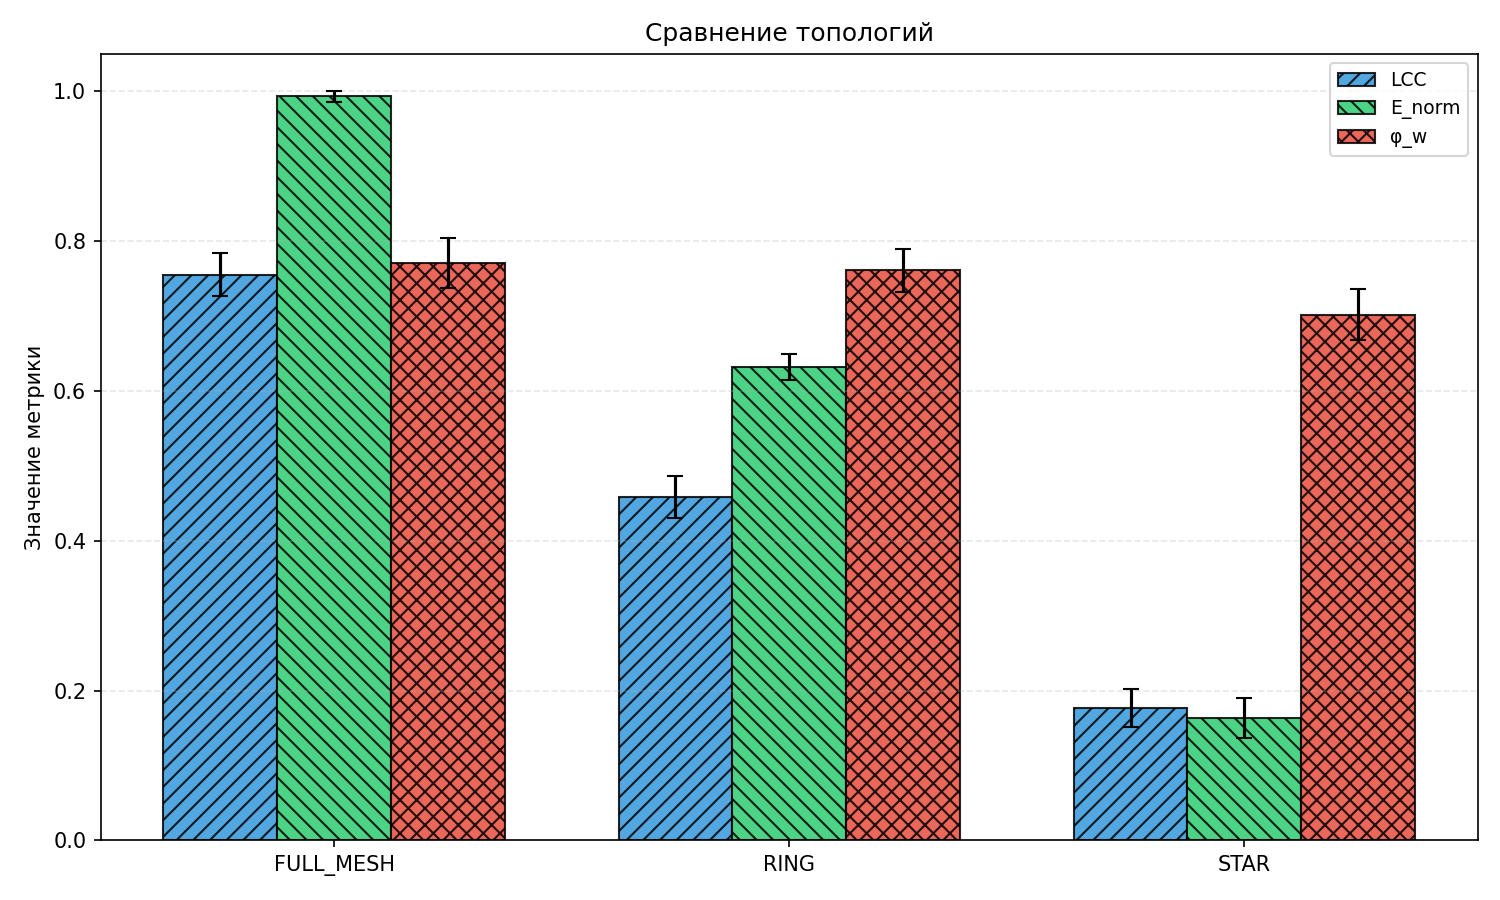
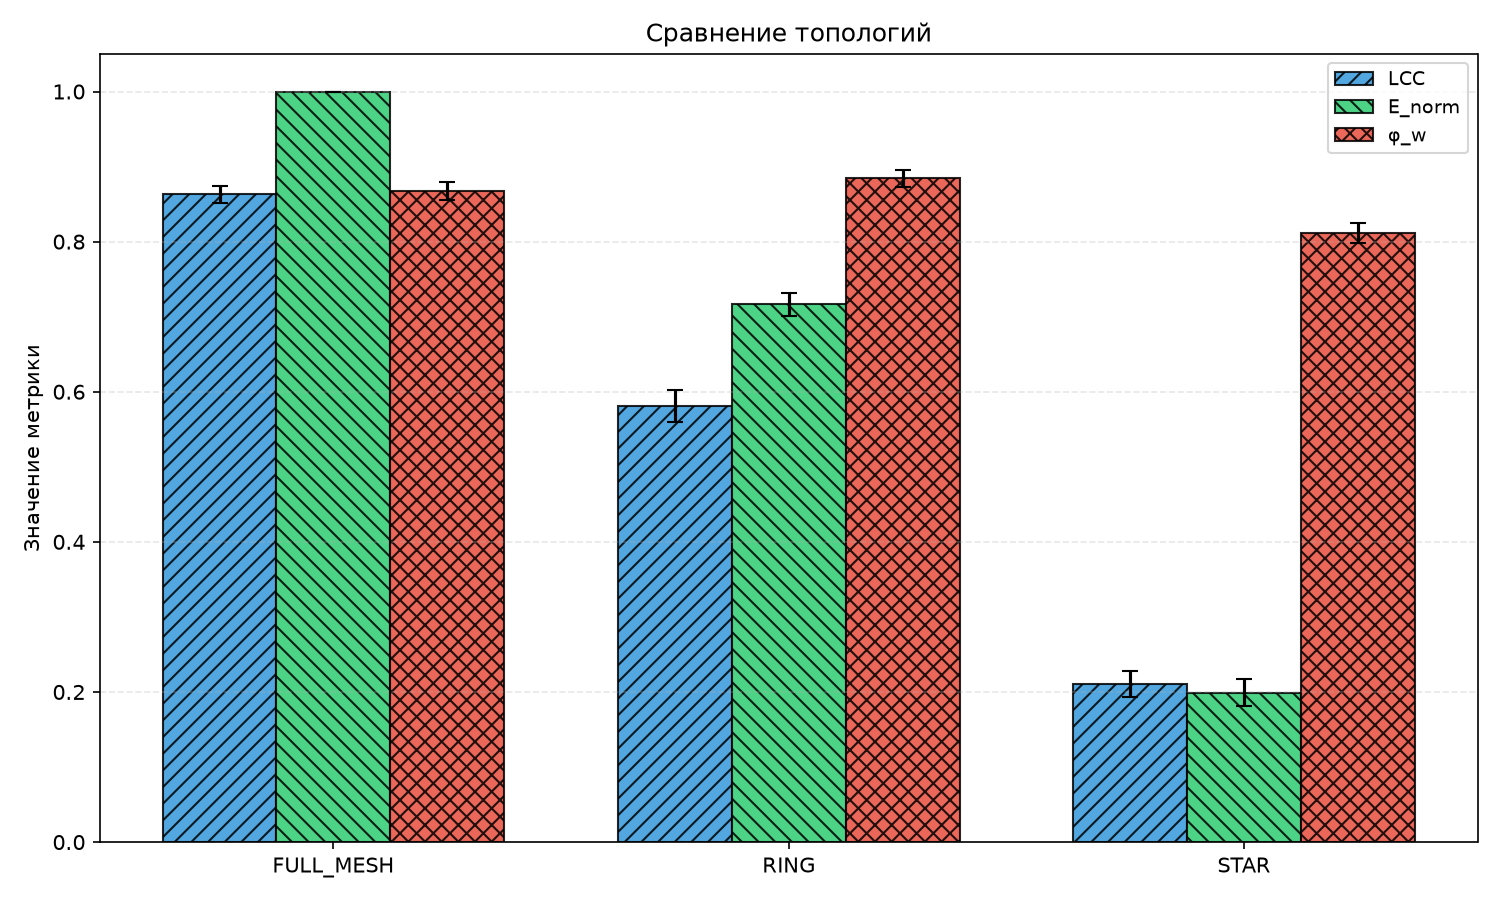
добавлены частично для каждого графика параметры взвешенной живучести

diff --git a/plot_results.py b/plot_results.py
@@ -181,48 +181,61 @@ def plot_timeseries(out_dir):
 
 # 5. Параметрический Sweep (ЧБ-совместимый с разными маркерами)
 def plot_sweep(out_dir):
+    """Создаёт ДВА графика sweep: по LCC и по φ_w."""
     files = glob.glob(os.path.join(out_dir, "sweep_*.csv"))
     if not files:
         return
     
-    fig, axs = plt.subplots(2, 2, figsize=(14, 10))
-    axs = axs.flatten()
+    # Стили топологий
+    TOPO_STYLES = {
+        "full_mesh": {"color": "#1f77b4", "marker": "o", "ls": "-"},
+        "ring":      {"color": "#2ca02c", "marker": "s", "ls": "--"},
+        "star":      {"color": "#d62728", "marker": "^", "ls": "-."},
+    }
     
-    for i, f in enumerate(files[:4]):
-        df = pd.read_csv(f)
-        param = os.path.basename(f).replace("sweep_", "").replace(".csv", "")
-        ax = axs[i]
+    # Создаём два графика: LCC и Weighted Survivability
+    for metric_suffix, ylabel, filename in [
+        ('lcc', 'LCC', 'plot_sweep_lcc.png'),
+        ('wsurv', 'Взвешенная живучесть φ_w', 'plot_sweep_wsurv.png')
+    ]:
+        fig, axs = plt.subplots(2, 2, figsize=(14, 10))
+        axs = axs.flatten()
         
-        cols = [c for c in df.columns if c.endswith('_lcc_mean')]
-        for col in cols:
-            topo = col.replace('_lcc_mean', '').upper()
-            ci_col = col.replace('_mean', '_ci')
-            style = TOPO_STYLES.get(col.replace('_lcc_mean', ''), 
-                                    {"color": "gray", "marker": "o", "ls": "-"})
+        for i, f in enumerate(files[:4]):
+            df = pd.read_csv(f)
+            param = os.path.basename(f).replace("sweep_", "").replace(".csv", "")
+            ax = axs[i]
             
-            ax.plot(df['x_value'], df[col], 
-                    marker=style['marker'], 
-                    linestyle=style['ls'],
-                    linewidth=2,
-                    markersize=8,
-                    label=topo, 
-                    color=style['color'],
-                    markeredgecolor='black',
-                    markeredgewidth=0.5)
-            ax.fill_between(df['x_value'], 
-                           df[col]-df[ci_col], df[col]+df[ci_col], 
-                           color=style['color'], alpha=0.15)
+            cols = [c for c in df.columns if c.endswith(f'_{metric_suffix}_mean')]
+            for col in cols:
+                topo = col.replace(f'_{metric_suffix}_mean', '').upper()
+                ci_col = col.replace('_mean', '_ci')
+                style = TOPO_STYLES.get(col.replace(f'_{metric_suffix}_mean', ''), 
+                                        {"color": "gray", "marker": "o", "ls": "-"})
+                
+                ax.plot(df['x_value'], df[col], 
+                        marker=style['marker'], 
+                        linestyle=style['ls'],
+                        linewidth=2,
+                        markersize=8,
+                        label=topo, 
+                        color=style['color'],
+                        markeredgecolor='black',
+                        markeredgewidth=0.5)
+                ax.fill_between(df['x_value'], 
+                               df[col]-df[ci_col], df[col]+df[ci_col], 
+                               color=style['color'], alpha=0.15)
+            
+            ax.set_title(f"Sweep: {param}", fontsize=12, fontweight='bold')
+            ax.set_xlabel(param)
+            ax.set_ylabel(ylabel)
+            ax.grid(alpha=0.3, linestyle='--')
+            ax.legend(loc='best', frameon=True, fontsize=9)
         
-        ax.set_title(f"Sweep: {param}", fontsize=12, fontweight='bold')
-        ax.set_xlabel(param)
-        ax.set_ylabel("LCC")
-        ax.grid(alpha=0.3, linestyle='--')
-        ax.legend(loc='best', frameon=True, fontsize=9)
-    
-    plt.tight_layout()
-    plt.savefig(os.path.join(out_dir, "plot_sweep.png"), dpi=150)
-    plt.close()
-    print("  Сохранено: plot_sweep.png")
+        plt.tight_layout()
+        plt.savefig(os.path.join(out_dir, filename), dpi=150)
+        plt.close()
+        print(f"  Сохранено: {filename}")
 
 def main():
     out_dir = sys.argv[1] if len(sys.argv) > 1 else "results"

diff --git a/main.cpp b/main.cpp
@@ -378,6 +378,33 @@ static void printTopoReport(const TopoCompResult& comp) {
     hr();
 }
 
+
+// ─────────────────────────────────────────────────────────────────────────────
+// Вывод таблицы результатов
+// ─────────────────────────────────────────────────────────────────────────────
+static void printResultsTable(const std::map<std::string, MCResult>& results) {
+    hr();
+    std::cout << ANSI_BOLD << "  Результаты:\n" << ANSI_RESET;
+    std::cout << "   " << std::left << std::setw(12) << "Топология"
+        << std::setw(16) << "LCC±CI"
+        << std::setw(16) << "Enorm±CI"
+        << std::setw(16) << "φw±CI" << '\n';
+    hr('-', 60);
+
+    for (const auto& [topo, mc] : results) {
+        std::cout << std::fixed << std::setprecision(3);
+        std::cout << "   " << std::left << std::setw(12) << topo
+            << std::setw(16) << (std::to_string(mc.lcc_mean).substr(0, 5) +
+                "±" + std::to_string(mc.lcc_ci).substr(0, 5))
+            << std::setw(16) << (std::to_string(mc.eff_mean).substr(0, 5) +
+                "±" + std::to_string(mc.eff_ci).substr(0, 5))
+            << std::setw(16) << (std::to_string(mc.wsurv_mean).substr(0, 5) +
+                "±" + std::to_string(mc.wsurv_ci).substr(0, 5))
+            << '\n';
+    }
+    hr();
+}
+
 // ─────────────────────────────────────────────────────────────────────────────
 // Сценарии
 // ────────────────────────────────────────────────────────────────────────────
@@ -390,6 +417,7 @@ static void runTopology(const Config& c) {
         c.topologies, c.num_nodes, tk, c.T,
         c.attack_lambda, c.global_resources,
         c.attack_strategy, c.gatekeeper, c.n_sims, c.repair_slots);
+    printResultsTable(comp.results);
     printTopoReport(comp);
     exportTopologyComparison(comp, c.out_dir + "/topology_comparison.csv");
 }
@@ -422,6 +450,7 @@ static void runSweep(Config& c) {
                 c.n_sims, c.T, c.repair_slots);
         }
     }
+
     exportParameterSweep(sweep_data, c.sweep_ranges, c.out_dir);
 }
 

diff --git a/csv_export.cpp b/csv_export.cpp
@@ -50,7 +50,8 @@ void exportParameterSweep(
         f << "x_value";
         for (auto& [topo, _] : topo_map)
             f << "," << topo << "_lcc_mean," << topo << "_lcc_ci"
-              << "," << topo << "_eff_mean," << topo << "_eff_ci";
+              << "," << topo << "_eff_mean," << topo << "_eff_ci"
+              << "," << topo << "_wsurv_mean," << topo << "_wsurv_ci";
         f << "\n";
 
         const auto& xs = x_ranges.at(param);
@@ -58,7 +59,8 @@ void exportParameterSweep(
             f << xs[i];
             for (auto& [topo, sr] : topo_map) {
                 f << "," << sr.lcc_means[i] << "," << sr.lcc_ci[i]
-                  << "," << sr.eff_means[i] << "," << sr.eff_ci[i];
+                  << "," << sr.eff_means[i] << "," << sr.eff_ci[i]
+                  << "," << sr.wsurv_means[i] << "," << sr.wsurv_ci[i];
             }
             f << "\n";
         }

diff --git a/experiments.cpp b/experiments.cpp
@@ -257,6 +257,8 @@ SweepResult runParameterSweep(
     out.lcc_ci.reserve(param_values.size());
     out.eff_means.reserve(param_values.size());
     out.eff_ci.reserve(param_values.size());
+    out.wsurv_means.reserve(param_values.size());
+    out.wsurv_ci.reserve(param_values.size());
 
     for (double val : param_values) {
         double sim_lambda    = fixed_params.at("lambda");
@@ -283,6 +285,8 @@ SweepResult runParameterSweep(
         out.lcc_ci.push_back(r.lcc_ci);
         out.eff_means.push_back(r.eff_mean);
         out.eff_ci.push_back(r.eff_ci);
+        out.wsurv_means.push_back(r.wsurv_mean);
+        out.wsurv_ci.push_back(r.wsurv_ci);
     }
     return out;
 }

diff --git a/experiments.h b/experiments.h
@@ -93,6 +93,8 @@ struct SweepResult {
     std::vector<double> lcc_ci;
     std::vector<double> eff_means;
     std::vector<double> eff_ci;
+    std::vector<double> wsurv_means;
+    std::vector<double> wsurv_ci;
 };
 SweepResult runParameterSweep(
     const std::string&         param_name,